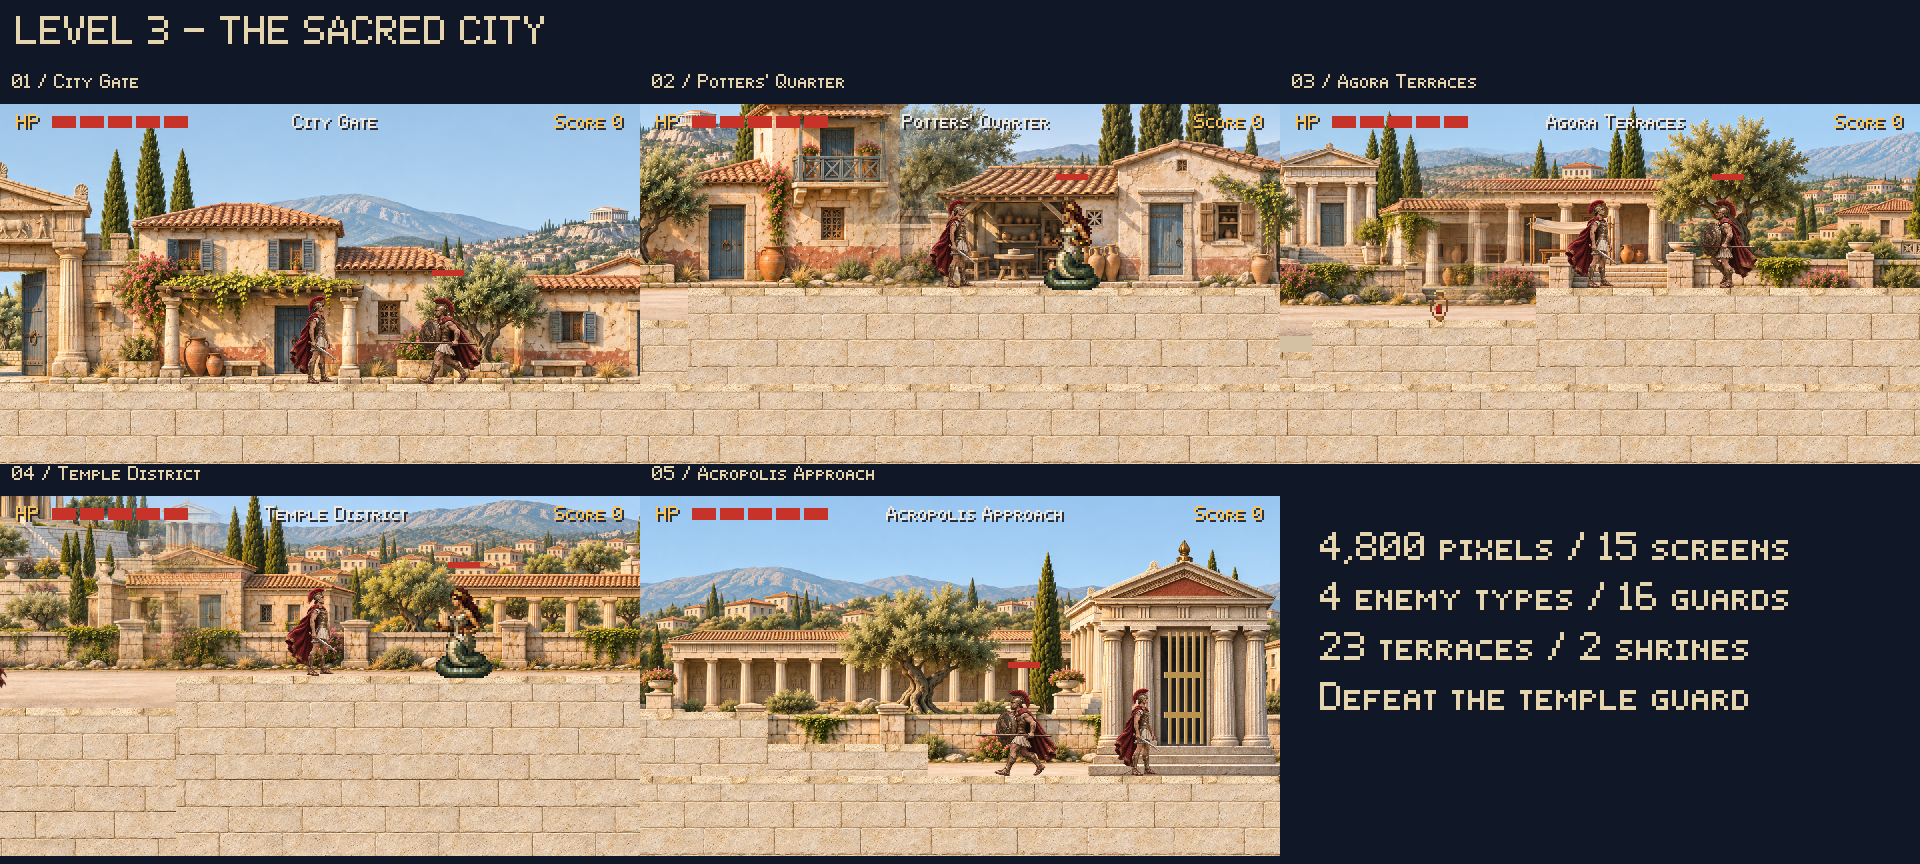
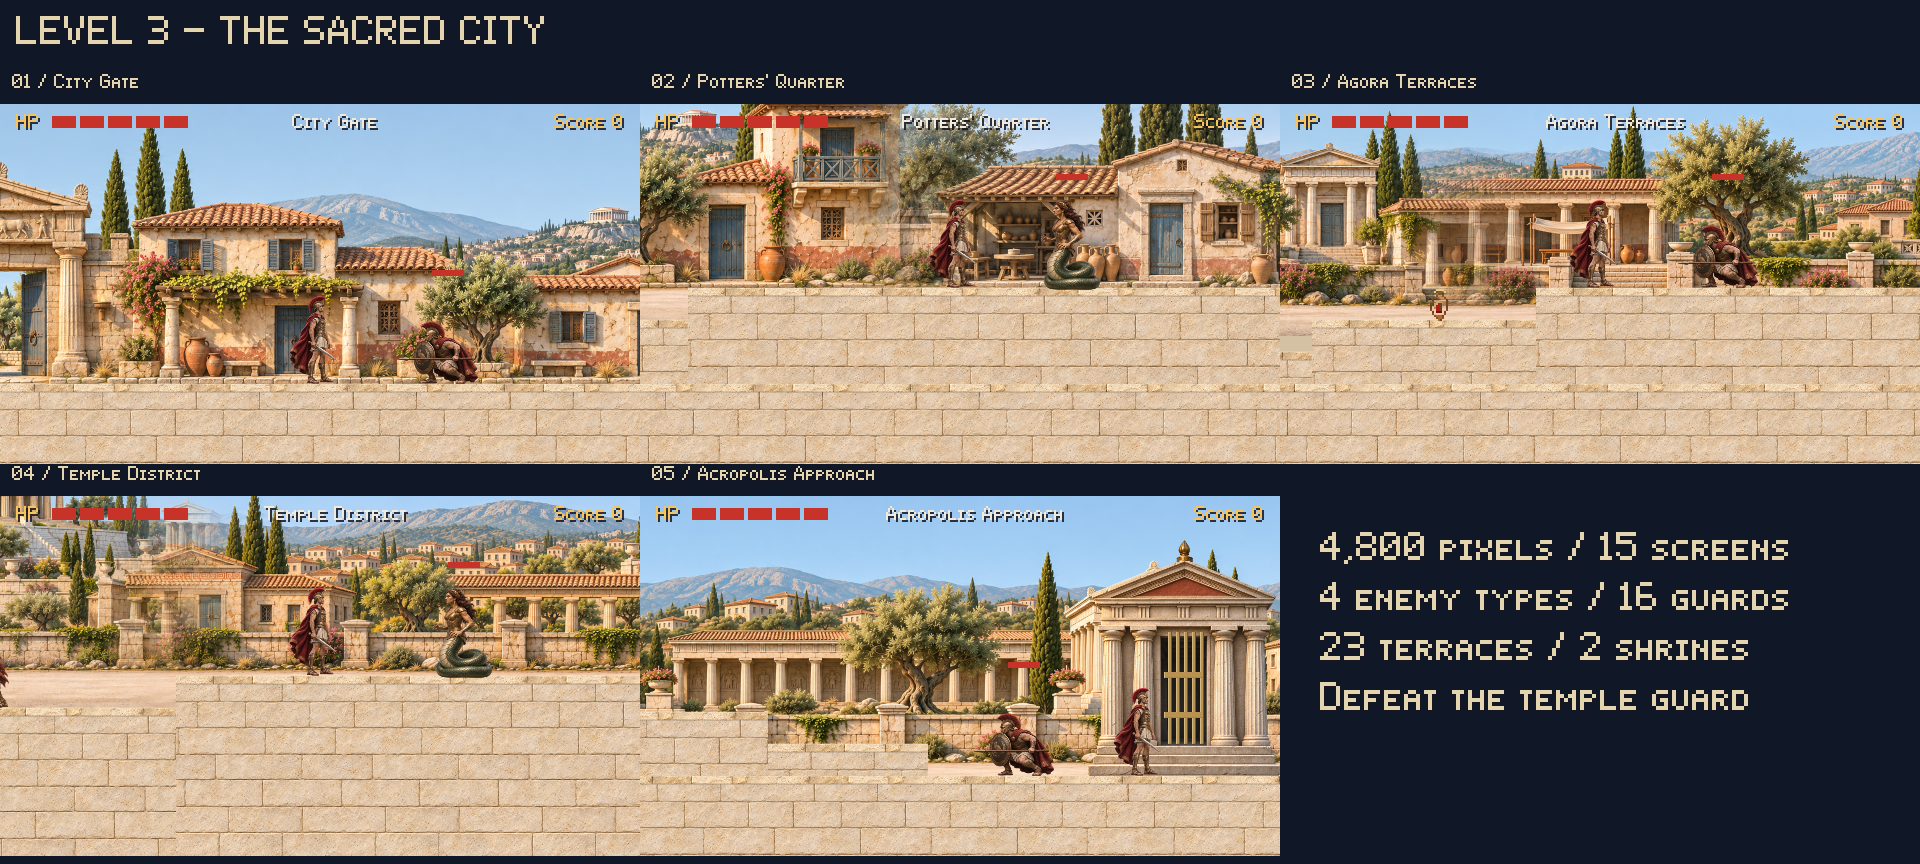
Redrawn last group of characters with new art style

diff --git a/README.md b/README.md
@@ -1,6 +1,6 @@
 # Theseus
 
-A left-to-right side scroller. Theseus runs the road from Athens to a guarded temple, along a rocky coast, through a sacred city, into cypress-covered mountain terraces, and across a rocky gorge lined with ancient temples. Theseus, Raiders, Peltasts, Hoplites, Spartoi, Telchines, Stymphalian Birds, Bronze Bulls, Cerberus Pups, Cyclops Slingers, and the scenery in all five levels use detailed cinematic 3D-style artwork. The remaining enemies retain the original retro artwork.
+A left-to-right side scroller. Theseus runs the road from Athens to a guarded temple, along a rocky coast, through a sacred city, into cypress-covered mountain terraces, and across a rocky gorge lined with ancient temples. All characters, including Theseus and all twelve enemy types, and the scenery in all five levels use detailed cinematic 3D-style artwork.
 
 Background panoramas blend across their full overlap. Checkpoint shrines use matching cinematic limestone and bronze, with lit and unlit brazier states.
 

diff --git a/docs/level_5.md b/docs/level_5.md
@@ -46,6 +46,12 @@ shapes, including the bull's ride platform. Their separate review arenas include
 pose galleries: `scenes/reviews/bronze_bull_review.tscn` and
 `scenes/reviews/cerberus_pup_review.tscn`.
 
+The Hydra now uses matching cinematic coils and six head-and-neck poses. Each
+jaw stays aligned with its original mouth hit area through idle, windup, bite,
+retreat, and recovery. The three heads still have independent health and can be
+severed separately; only defeating all three opens the exit. Review the complete
+boss with `godot --path . res://scenes/reviews/hydra_review.tscn`.
+
 | Enemy | Count | Health / score | Counter |
 | --- | --- | --- | --- |
 | Bronze Bull | 3 | 4 / 250 | Jump the committed charge. While airborne, hold Duck and press Sword to thrust onto its back, deal one damage, and stagger it into a temporary moving platform. |

diff --git a/docs/level_4.md b/docs/level_4.md
@@ -73,6 +73,11 @@ windup, throw, reload, and recovery poses. The larger source atlas keeps their
 original world size, planted feet, collision shapes, and attack timing. Review
 the poses or fight one with `godot --path . res://scenes/reviews/cyclops_review.tscn`.
 
+Satyrs also use eight cinematic poses for breathing, hop preparation, rising
+and falling hops, horn windup, charge, and recovery. Their collision shapes,
+horn reach, safe bounce, and wine drops are unchanged. Review them with
+`godot --path . res://scenes/reviews/satyr_review.tscn`.
+
 | Enemy | Count | Health / score | Counter |
 | --- | --- | --- | --- |
 | Cyclops Slinger | 4 | 3 / 200 | A slow, committed windup launches one boulder along a fixed arc. Jump the descending boulder or destroy it with a timed sword hit. Close during the long reload opening. |

diff --git a/docs/level_3.md b/docs/level_3.md
@@ -36,6 +36,11 @@ their trigger areas and saved spawn positions are unchanged.
 
 ## Movement and enemies
 
+Lamia now matches the other characters' cinematic 3D-style artwork across eight
+idle, windup, long-strike, retreat, protective-coil, and recovery poses. Her tail
+anchor, world size, collision shapes, and attack timing are unchanged. Review
+the poses or fight her with `godot --path . res://scenes/reviews/lamia_review.tscn`.
+
 Twenty-three terraces form fifteen uphill jumps, open courtyards, and descending
 steps. Upward steps rise 16 pixels; downward steps drop 16–32 pixels. The highest
 landing is y=152, 128 pixels above the street. Connected high terraces prevent
